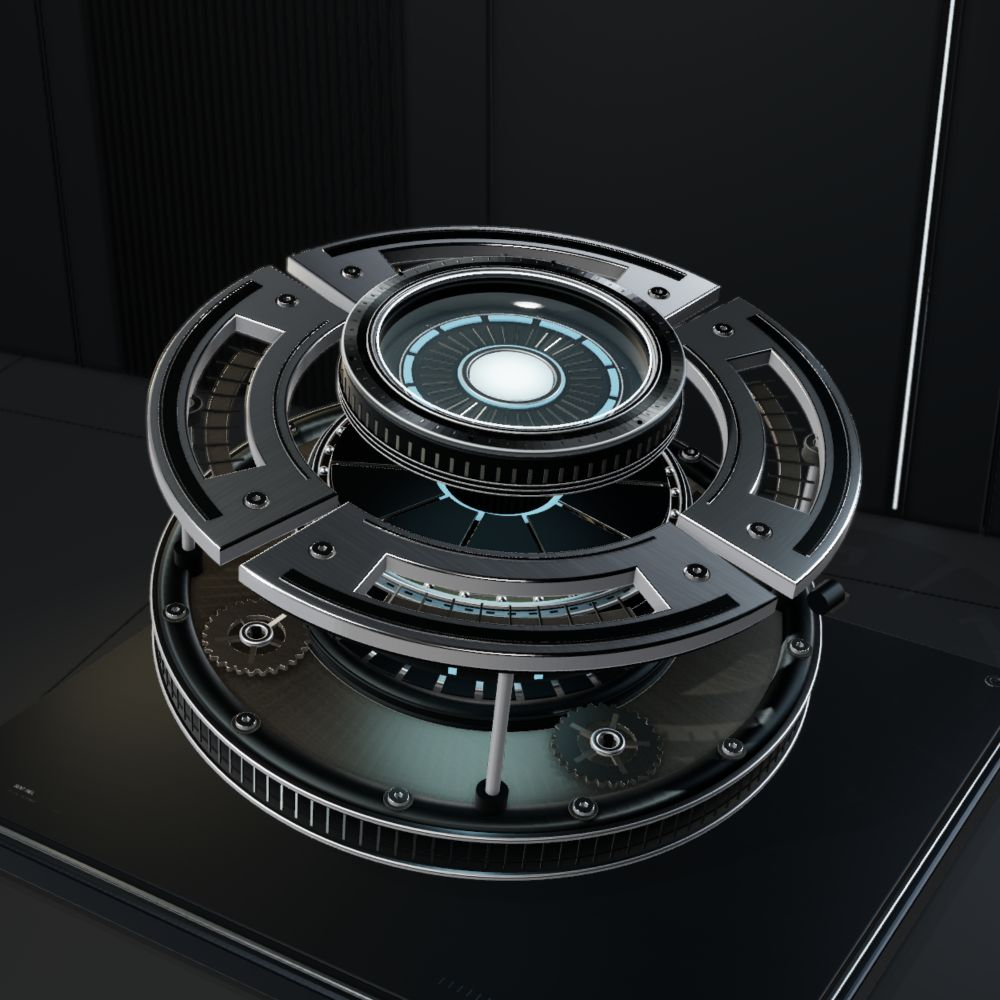
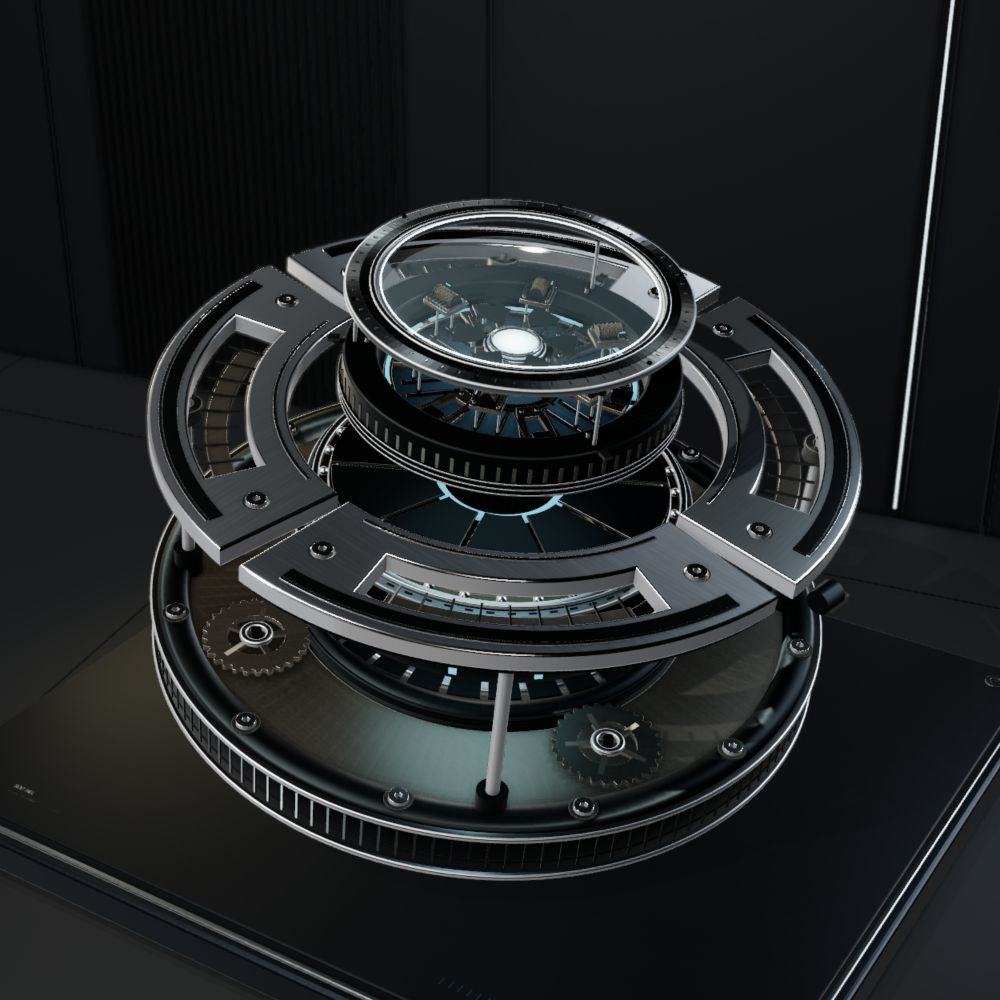
Articulate the optical core with guided cartridges and staged bridges

diff --git a/src/Sentinel.Api/wwwroot/sentinel-scene.js b/src/Sentinel.Api/wwwroot/sentinel-scene.js
@@ -31,6 +31,21 @@ export function mechanicalPose(progress) {
   };
 }
 
+// Every internal stage follows the same reversible cam coordinate. The cover
+// clears first, six guided modules follow in order, then the shutter opens.
+export function interiorPose(progress) {
+  const p=clamp(progress,0,1),travel=(start,end)=>ease((p-start)/(end-start));
+  return {latch:travel(.34,.44),hood:travel(.45,.63),emitter:travel(.73,.91),shutter:travel(.81,1),
+    cells:Array.from({length:6},(_,i)=>({slide:travel(.64+i*.026,.735+i*.026),lift:travel(.70+i*.026,.82+i*.026)}))};
+}
+
+export function bridgePose(progress) {
+  const p=clamp(progress,0,1);
+  return Array.from({length:4},(_,i)=>({
+    unlock:ease((p-i*.047)/.13),lift:ease((p-.15-i*.047)/.40)
+  }));
+}
+
 // Exact critically damped step, including velocity. Unlike resetting an ease
 // on every click, changing direction mid-travel does not introduce a jerk.
 export function advanceTravel(state, target, delta) {
@@ -332,6 +347,27 @@ function makeModel(grain) {
       const a=i/count*TAU+offset;return {position:[Math.cos(a)*radius,y,Math.sin(a)*radius],rotation:[0,-a,0]};
     }));
   }
+  function repeatAssembly(template,count,parent){
+    // Batch each finish once, then instance the complete cartridge. Tiny screws
+    // and coil windings do not each become a draw call for every moving module.
+    template.updateMatrixWorld(true);
+    const finishes=new Map(),batches=[];
+    template.traverse(object=>{if(!object.isMesh)return;if(!finishes.has(object.material))finishes.set(object.material,[]);finishes.get(object.material).push(object);});
+    for(const [material,objects] of finishes){
+      const pieces=objects.map(object=>(object.geometry.index?object.geometry.toNonIndexed():object.geometry.clone()).applyMatrix4(object.matrixWorld));
+      const geometry=new THREE.BufferGeometry();
+      for(const name of ['position','normal','uv']){
+        const array=new Float32Array(pieces.reduce((sum,piece)=>sum+piece.getAttribute(name).array.length,0));
+        let offset=0;for(const piece of pieces){const source=piece.getAttribute(name).array;array.set(source,offset);offset+=source.length;}
+        geometry.setAttribute(name,new THREE.BufferAttribute(array,name==='uv'?2:3));
+      }
+      pieces.forEach(piece=>piece.dispose());
+      const batch=instance(parent,geometry,material,Array.from({length:count},()=>({position:[0,0,0]})));
+      if(material===materials.lightGuide)batch.castShadow=batch.receiveShadow=false;
+      batches.push(batch);
+    }
+    return batches;
+  }
   function extrude(shape,depth,bevel=.025,segments=40){
     const geometry=new THREE.ExtrudeGeometry(shape,{depth,bevelEnabled:true,bevelThickness:bevel,bevelSize:bevel,bevelSegments:4,curveSegments:segments,steps:1});
     geometry.rotateX(Math.PI/2);geometry.translate(0,depth/2,0);return geometry;
@@ -404,13 +440,15 @@ function makeModel(grain) {
     const panel=new THREE.Group();pivot.add(panel);
     mesh(panel,quarter,[materials.face,materials.edge]);
     // Inset black lands separate broad satin faces from the polished bevels.
-    mesh(panel,arcGeometry(2.19,2.28,.15,Math.PI/2-.15,.007,.002),materials.bore,0,.078);
-    mesh(panel,arcGeometry(1.545,1.564,.17,Math.PI/2-.17,.009,.002),materials.edge,0,.079);
-    mesh(panel,arcGeometry(2.288,2.305,.15,Math.PI/2-.15,.008,.002),materials.edge,0,.079);
-    mesh(panel,arcGeometry(2.24,2.34,.075,Math.PI/2-.075,.035,.008),materials.bore,0,-.094);
-    mesh(panel,arcGeometry(1.52,1.61,.055,Math.PI/2-.055,.025,.005),materials.bore,0,-.078);
+    const trim=new THREE.Group();
+    mesh(trim,arcGeometry(2.19,2.28,.15,Math.PI/2-.15,.007,.002),materials.bore,0,.078);
+    mesh(trim,arcGeometry(1.545,1.564,.17,Math.PI/2-.17,.009,.002),materials.edge,0,.079);
+    mesh(trim,arcGeometry(2.288,2.305,.15,Math.PI/2-.15,.008,.002),materials.edge,0,.079);
+    mesh(trim,arcGeometry(2.24,2.34,.075,Math.PI/2-.075,.035,.008),materials.bore,0,-.094);
+    mesh(trim,arcGeometry(1.52,1.61,.055,Math.PI/2-.055,.025,.005),materials.bore,0,-.078);
     // An inset bridge and transverse ribs sit below the machined opening.
-    mesh(panel,arcGeometry(1.87,2.00,.38,1.18,.028,.006),materials.nickel,0,-.13);
+    mesh(trim,arcGeometry(1.87,2.00,.38,1.18,.028,.006),materials.nickel,0,-.13);
+    repeatAssembly(trim,1,panel);
     const ribs=[];
     for(let n=0;n<9;n++){
       const a=.40+n*.095;ribs.push({position:[Math.cos(a)*1.94,-.097,Math.sin(a)*1.94],rotation:[0,-a,0]});
@@ -455,13 +493,14 @@ function makeModel(grain) {
 
   const optic=new THREE.Group();root.add(optic);
   ring(optic,.89,1.12,.29,-.035,materials.bore);
-  ring(optic,.91,1.13,.055,.15,materials.face);
-  ring(optic,.93,.968,.029,.180,materials.edge);
-  torus(optic,.895,.007,.183,materials.emitter);
+  const hood=new THREE.Group();optic.add(hood);
+  ring(hood,.91,1.13,.055,.15,materials.face);
+  ring(hood,.93,.968,.029,.180,materials.edge);
+  torus(hood,.895,.007,.183,materials.emitter);
   for(const y of [-.16,-.12,-.08])ring(optic,1.08,1.145,.012,y,materials.edge);
   radial(optic,new THREE.BoxGeometry(.025,.11,.024),materials.body,72,1.115,-.018);
-  ring(optic,.968,1.03,.005,.182,materials.bore);
-  radial(optic,new THREE.BoxGeometry(.025,.006,.008),materials.face,60,1.068,.184);
+  ring(hood,.968,1.03,.005,.182,materials.bore);
+  radial(hood,new THREE.BoxGeometry(.025,.006,.008),materials.face,60,1.068,.184);
   const engraving=document.createElement('canvas');engraving.width=engraving.height=1024;
   const etch=engraving.getContext('2d');etch.translate(512,512);etch.fillStyle='#1c282d';
   etch.font='500 22px monospace';etch.textAlign='center';etch.textBaseline='middle';
@@ -470,7 +509,7 @@ function makeModel(grain) {
   }
   const etching=new THREE.CanvasTexture(engraving);etching.colorSpace=THREE.SRGBColorSpace;etching.anisotropy=8;textures.add(etching);
   materials.etching=new THREE.MeshStandardMaterial({map:etching,transparent:true,depthWrite:false,roughness:.65,metalness:.2});
-  const scale=mesh(optic,new THREE.PlaneGeometry(2.28,2.28),materials.etching,0,.186,0,false);scale.rotation.x=-Math.PI/2;
+  const scale=mesh(hood,new THREE.PlaneGeometry(2.28,2.28),materials.etching,0,.186,0,false);scale.rotation.x=-Math.PI/2;
   // A frosted aperture sits in a machined optical well. A radial emission map
   // rolls off inside the physical surface rather than drawing a screen halo.
   const phosphor=document.createElement('canvas');phosphor.width=phosphor.height=256;
@@ -481,18 +520,88 @@ function makeModel(grain) {
   materials.aperture=new THREE.MeshStandardMaterial({color:0xb3d8dc,roughness:.48,metalness:0,emissive:0xffffff,emissiveMap:phosphorMap,emissiveIntensity:3});
   materials.lightWell=new THREE.MeshStandardMaterial({color:0x091418,roughness:.42,metalness:.3,emissive:0x176879,emissiveMap:phosphorMap,emissiveIntensity:.65});
   mesh(optic,new THREE.CylinderGeometry(.89,.89,.026,96),materials.lightWell,0,-.12,0,false);
-  ring(optic,.29,.34,.035,-.065,materials.edge);
-  ring(optic,.35,.81,.023,-.089,materials.bore);
-  const aperture=mesh(optic,new THREE.CylinderGeometry(.278,.278,.020,64),materials.aperture,0,-.066,0,false);aperture.receiveShadow=false;
-  torus(optic,.348,.010,-.06,materials.lightGuide);
-  const lightSegments=radial(optic,arcGeometry(.665,.713,.045,TAU/12-.045,.012,.002),materials.lightGuide,12,0,-.059);
+  ring(optic,.29,.35,.028,-.09,materials.bore);
+  ring(optic,.79,.85,.018,-.077,materials.nickel);
+  const lightSegments=radial(optic,arcGeometry(.81,.835,.045,TAU/12-.045,.010,.002),materials.lightGuide,12,0,-.063);
   lightSegments.castShadow=lightSegments.receiveShadow=false;
-  radial(optic,new THREE.BoxGeometry(.205,.011,.012),materials.nickel,36,.50,-.067);
-  torus(optic,.738,.006,-.059,materials.edge);
-  radial(optic,new THREE.CylinderGeometry(.016,.016,.008,6),materials.edge,6,.79,-.071);
-  const glass=mesh(optic,new THREE.SphereGeometry(2.42,96,36,0,TAU,0,.384),materials.glass,0,-2.228);
+  const glass=mesh(hood,new THREE.SphereGeometry(2.42,96,36,0,TAU,0,.384),materials.glass,0,-2.228);
   glass.castShadow=false;glass.receiveShadow=false;
-  radial(optic,new THREE.CylinderGeometry(.018,.018,.009,6),materials.bore,6,1.091,.19);
+  radial(hood,new THREE.CylinderGeometry(.018,.018,.009,6),materials.bore,6,1.091,.19);
+
+  const hoodLocks=[];
+  const bank=new THREE.Group();
+  mesh(bank,milledSlab(.235,.205,.026,.019,.003),materials.nickel);
+  mesh(bank,new THREE.BoxGeometry(.174,.024,.14),materials.ceramic,0,.021);
+  const bobbin=mesh(bank,new THREE.CylinderGeometry(.043,.043,.14,20),materials.ceramic,0,.046);bobbin.rotation.z=Math.PI/2;
+  for(let i=0;i<10;i++){
+    const winding=mesh(bank,new THREE.TorusGeometry(.047,.0055,6,24),materials.copper,-.064+i*.014,.046);winding.rotation.y=Math.PI/2;
+  }
+  for(const sign of [-1,1]){
+    const cap=mesh(bank,new THREE.CylinderGeometry(.052,.052,.012,20),materials.bore,sign*.081,.046);cap.rotation.z=Math.PI/2;
+    mesh(bank,new THREE.BoxGeometry(.19,.012,.016),materials.edge,0,.033,sign*.085);
+    for(const x of [-.095,.095])mesh(bank,new THREE.CylinderGeometry(.011,.011,.013,6),materials.edge,x,.026,sign*.078);
+  }
+  for(let i=0;i<6;i++)mesh(bank,new THREE.BoxGeometry(.009,.052,.033),materials.body,-.075+i*.03,.025,-.083);
+  mesh(bank,new THREE.BoxGeometry(.055,.036,.027),materials.bore,.061,.059,.071);
+  mesh(bank,new THREE.BoxGeometry(.038,.006,.008),materials.lightGuide,.061,.080,.074,false);
+  for(let i=0;i<3;i++)mesh(bank,new THREE.BoxGeometry(.006,.012,.019),materials.nickel,.044+i*.014,.041,.087);
+  const banks=repeatAssembly(bank,6,optic);
+  const guideTemplate=new THREE.Group();
+  for(const sign of [-1,1]){
+    mesh(guideTemplate,new THREE.BoxGeometry(.36,.018,.025),materials.bore,.55,-.087,sign*.073);
+    mesh(guideTemplate,new THREE.BoxGeometry(.30,.008,.007),materials.edge,.55,-.073,sign*.073);
+  }
+  mesh(guideTemplate,new THREE.BoxGeometry(.105,.010,.025),materials.copper,.33,-.08);
+  // Pocketed interstitial bridges carry control packages and copper contacts.
+  // These sit between the guided cartridges, below their moving envelope.
+  const support=new THREE.Group();support.rotation.y=-Math.PI/6;guideTemplate.add(support);
+  const bridge=arcPath(new THREE.Shape(),.37,.79,-.19,.19);
+  bridge.holes.push(arcPath(new THREE.Path(),.47,.69,.105,-.105,true));
+  mesh(support,extrude(bridge,.024,.003,16),materials.nickel,0,-.063);
+  mesh(support,milledSlab(.13,.12,.028,.008,.002),materials.ceramic,.745,-.031);
+  for(const sign of [-1,1]){
+    for(let i=0;i<5;i++)mesh(support,new THREE.BoxGeometry(.011,.008,.039),materials.copper,.696+i*.024,-.033,sign*.067);
+    mesh(support,new THREE.BoxGeometry(.31,.009,.008),materials.copper,.57,-.045,sign*.105);
+    mesh(support,new THREE.CylinderGeometry(.015,.015,.014,6),materials.edge,.414,-.041,sign*.051);
+  }
+  const staticGuides=repeatAssembly(guideTemplate,6,optic),guideDummy=new THREE.Object3D();
+  for(let i=0;i<6;i++){
+    guideDummy.rotation.y=-i/6*TAU;guideDummy.updateMatrix();
+    staticGuides.forEach(batch=>batch.setMatrixAt(i,guideDummy.matrix));
+  }
+  staticGuides.forEach(batch=>{batch.instanceMatrix.needsUpdate=true;batch.computeBoundingSphere();});
+  const rodPositions=Array.from({length:12},()=>({position:[0,0,0]}));
+  const internalRods=instance(optic,new THREE.CylinderGeometry(.008,.008,1,12),materials.edge,rodPositions);
+  const internalCollars=instance(optic,new THREE.CylinderGeometry(.016,.016,.025,12),materials.bore,rodPositions);
+  const hoodRodPositions=Array.from({length:3},(_,i)=>{const a=i/3*TAU+.3;return {position:[Math.cos(a)*1.045,0,Math.sin(a)*1.045]};});
+  const hoodRods=instance(optic,new THREE.CylinderGeometry(.013,.013,1,16),materials.edge,hoodRodPositions);
+  instance(optic,new THREE.CylinderGeometry(.037,.037,.11,20),materials.bore,hoodRodPositions.map(t=>({position:[t.position[0],.017,t.position[2]]})));
+  instance(hood,new THREE.CylinderGeometry(.029,.029,.10,20),materials.bore,hoodRodPositions.map(t=>({position:[t.position[0],.098,t.position[2]]})));
+  radial(optic,new THREE.BoxGeometry(.25,.014,.038),materials.bore,3,1.06,.102,.3);
+  for(let i=0;i<3;i++){
+    const a=i/3*TAU+.3;
+    const latch=new THREE.Group();latch.position.set(Math.cos(a)*.985,.122,Math.sin(a)*.985);latch.rotation.y=-a;optic.add(latch);
+    mesh(latch,new THREE.BoxGeometry(.075,.025,.056),materials.body,.016,0);
+    mesh(latch,new THREE.CylinderGeometry(.016,.016,.035,6),materials.edge,-.019,.009);
+    hoodLocks.push(latch);
+  }
+  const tower=new THREE.Group();optic.add(tower);
+  ring(tower,.13,.265,.038,0,materials.bore);
+  ring(tower,.173,.208,.030,.032,materials.edge);
+  const aperture=mesh(tower,new THREE.CylinderGeometry(.166,.166,.042,48),materials.aperture,0,.042,0,false);aperture.receiveShadow=false;
+  ring(tower,.153,.178,.018,.070,materials.face);
+  torus(tower,.18,.004,.053,materials.lightGuide);
+  radial(tower,new THREE.BoxGeometry(.055,.055,.024),materials.nickel,6,.238,.025);
+  const petals=[],petalGeometry=keep(arcGeometry(.075,.27,-Math.PI/6+.04,Math.PI/6-.04,.007,.001));petalGeometry.translate(-.29,0,0);
+  for(let i=0;i<6;i++){
+    const pivot=new THREE.Group();pivot.rotation.y=-i/6*TAU;tower.add(pivot);
+    const hinge=new THREE.Group();hinge.position.set(.29,.081+i*.003,0);pivot.add(hinge);
+    mesh(hinge,petalGeometry,materials.bore);
+    petals.push(hinge);
+  }
+  radial(tower,new THREE.CylinderGeometry(.012,.012,.042,16),materials.edge,6,.29,.081);
+  const towerPosts=radial(optic,new THREE.CylinderGeometry(.010,.010,1,12),materials.edge,3,.22,0);
+  const cellDummy=new THREE.Object3D();
 
   const iris=new THREE.Group();cartridge.add(iris);iris.position.y=.24;
   const blades=[],bladeGeometry=keep(arcGeometry(.38,1.08,-.31,.33,.012,.004));
@@ -538,24 +647,53 @@ function makeModel(grain) {
 
   let travel={position:0,velocity:0};
   function update(time,delta,view,pointer,snap=false,power=1){
-    const target=view==='exploded'?1:view==='assembled'?0:cycleProgress(time);
+    const target=view==='exploded'||view==='detail'?1:view==='assembled'?0:cycleProgress(time);
     travel=snap?{position:target,velocity:0}:advanceTravel(travel,target,delta);
     const pose=mechanicalPose(travel.position);
+    const inside=interiorPose(travel.position);
+    const bridges=bridgePose(travel.position);
     root.rotation.set(.08+pointer.y*.022,-.38+pointer.x*.045,-.16);
-    cover.position.y=-.62+pose.cover*.17+pose.lift*1.03;
+    cover.position.y=-.62;
     cartridge.position.y=-.63+pose.carrier*.47;
     optic.position.y=-.31+pose.lift*.19+pose.optic*1.10;
-    covers.forEach(({latch})=>{
-      latch.position.y=-.19+pose.unlock*.10;
+    hood.position.y=inside.hood*.45;
+    hoodRodPositions.forEach(({position},i)=>{const bottom=.023,top=.14+hood.position.y;cellDummy.position.set(position[0],(bottom+top)/2,position[2]);cellDummy.rotation.set(0,0,0);cellDummy.scale.set(1,top-bottom,1);cellDummy.updateMatrix();hoodRods.setMatrixAt(i,cellDummy.matrix);});
+    hoodRods.instanceMatrix.needsUpdate=true;hoodRods.computeBoundingSphere();
+    hoodLocks.forEach(lock=>{lock.children[0].position.x=.016+inside.latch*.18;});
+    inside.cells.forEach((cell,i)=>{
+      const a=i/6*TAU,r=.49+cell.slide*.16;
+      cellDummy.position.set(Math.cos(a)*r,-.045+cell.lift*.23,Math.sin(a)*r);cellDummy.rotation.set(0,-a,0);cellDummy.scale.set(1,1,1);cellDummy.updateMatrix();
+      banks.forEach(batch=>batch.setMatrixAt(i,cellDummy.matrix));
+      for(let side=0;side<2;side++){
+        const z=(side?1:-1)*.073,top=-.057+cell.lift*.23,bottom=-.081;
+        cellDummy.position.set(Math.cos(a)*r-Math.sin(a)*z,(top+bottom)/2,Math.sin(a)*r+Math.cos(a)*z);
+        cellDummy.scale.set(1,top-bottom,1);cellDummy.updateMatrix();internalRods.setMatrixAt(i*2+side,cellDummy.matrix);
+        cellDummy.position.y=-.061;cellDummy.scale.set(1,1,1);cellDummy.updateMatrix();internalCollars.setMatrixAt(i*2+side,cellDummy.matrix);
+      }
+    });
+    banks.forEach(batch=>{batch.instanceMatrix.needsUpdate=true;batch.computeBoundingSphere();});
+    for(const batch of [internalRods,internalCollars]){batch.instanceMatrix.needsUpdate=true;batch.computeBoundingSphere();}
+    tower.position.y=-.055+inside.emitter*.20;
+    // Thin overlapping shutters swivel on vertical pivots, exposing the source
+    // without forming an opaque cone or crossing the coil cartridges.
+    petals.forEach(petal=>{petal.rotation.y=inside.shutter*1.62;});
+    for(let i=0;i<3;i++){
+      const a=i/3*TAU,bottom=-.096,top=tower.position.y;
+      cellDummy.position.set(Math.cos(a)*.22,(bottom+top)/2,Math.sin(a)*.22);cellDummy.rotation.set(0,0,0);cellDummy.scale.set(1,top-bottom,1);cellDummy.updateMatrix();towerPosts.setMatrixAt(i,cellDummy.matrix);
+    }
+    towerPosts.instanceMatrix.needsUpdate=true;towerPosts.computeBoundingSphere();
+    covers.forEach(({panel,latch},i)=>{
+      panel.position.y=bridges[i].lift*1.20;
+      latch.position.y=-.19+bridges[i].unlock*.10;
     });
     blades.forEach((blade,i)=>{blade.position.x=pose.iris*.09;blade.rotation.y=-pose.iris*.16;blade.position.y=i*.002;});
-    guidePosts.forEach(({rod,sleeve,collar})=>{
-      const bottom=-.96,top=cover.position.y-.18,length=top-bottom;
+    guidePosts.forEach(({rod,sleeve,collar},i)=>{
+      const bottom=-.96,top=cover.position.y+covers[(4-i)%4].panel.position.y-.18,length=top-bottom;
       rod.position.y=(bottom+top)/2;rod.scale.y=Math.max(.08,length);
       sleeve.position.y=bottom+.055;collar.position.y=bottom+.13;
     });
-    rotor.rotation.y=time*.035;
-    gears.forEach((gear,i)=>{gear.rotation.y=time*(i%2?.042:-.042);});
+    rotor.rotation.y=pose.carrier*.18;
+    gears.forEach((gear,i)=>{gear.rotation.y=(i%2?1:-1)*(bridges[i].lift*.8+pose.carrier*.2);});
     // Illumination rises slowly as the optical cartridge clears the housing.
     // No flashing, scanning HUD or independent decorative rings.
     const breath=1+Math.sin(time*TAU/12)*.035;
@@ -709,6 +847,7 @@ export async function createMechanismScene(element, {still=false,environmentData
   let frame=0, running=false, failed=false, destroyed=false, ready=false, elapsed=still ? 10 : hero ? 0 : 4.8, last=0, lastPaint=0, frames=0;
   let ignition=still||!hero?4:0;
   let view="auto", width=1, height=1, narrow=false, displayedState;
+  let framing={position:0,velocity:0};
   const pointer = {x:0,y:0}, targetPointer = {x:0,y:0};
   const scene = new THREE.Scene();
   scene.background=new THREE.Color(0x090c10);
@@ -764,10 +903,17 @@ export async function createMechanismScene(element, {still=false,environmentData
     scene.environmentIntensity=.52*(.12+.88*cue.key);
     studio.setIllumination(cue.rim);
     const expansion=model.update(elapsed,delta,view,pointer,snap,cue.optic);
+    const targetFrame=view==='detail'?1:0;
+    framing=snap?{position:targetFrame,velocity:0}:advanceTravel(framing,targetFrame,delta);
+    const close=framing.position;
     if(hero && !narrow){
       const dolly=.94+.06*cue.travel;
-      camera.position.set(3.9+Math.sin(elapsed*.055)*.04+pointer.x*.12,(4.5+expansion*.22)*dolly,(10.6+expansion*.32)*dolly);
-      camera.lookAt(1.55,-.28+expansion*.15,0);
+      camera.position.set(3.9-close*1.45+Math.sin(elapsed*.055)*.04+pointer.x*.12,(4.5+expansion*.22+close*1.10)*dolly,(10.6+expansion*.32-close*4.8)*dolly);
+      camera.lookAt(1.55-close*.52,-.28+expansion*.15+close*.98,0);
+    }else{
+      const base=hero?Math.max(12.6,10.2/camera.aspect):Math.max(12.9,11.4/camera.aspect),distance=base*(1-close*.31);
+      camera.position.set(distance*(hero?.29:.34),distance*(hero?.48:.46),distance*(hero?.82:.81));
+      camera.lookAt(hero?-.20:0,(hero?.17:-.12)+close*.65,0);
     }
     renderer.info.reset();
     finish.render(scene,camera,elapsed,model.focusPoint());
@@ -779,6 +925,7 @@ export async function createMechanismScene(element, {still=false,environmentData
       canvas.dataset.drawCalls=String(renderer.info.render.calls);
       canvas.dataset.triangles=String(renderer.info.render.triangles);
       canvas.dataset.ignition=ignition<3.8?'lighting':'complete';
+      canvas.dataset.view=view;
     }
   }
   function tick(now) {
@@ -888,7 +1035,8 @@ export async function createMechanismScene(element, {still=false,environmentData
       model.setState(state);
       if (!running) draw();
     },setView:mode=>{
-      view=["auto","exploded","assembled"].includes(mode) ? mode : "auto";
+      view=["auto","exploded","assembled","detail"].includes(mode) ? mode : "auto";
+      element.dataset.view=view;
       if(view!=="auto")ignition=4;
       if (!running) draw(0,true);
     },dispose};

diff --git a/src/Sentinel.Api/wwwroot/login.css b/src/Sentinel.Api/wwwroot/login.css
@@ -6,6 +6,7 @@ button:focus-visible,a:focus-visible{outline:2px solid #afd9ee;outline-offset:5p
 .access-shell{position:relative;isolation:isolate;min-height:780px;height:100svh;overflow:hidden;background:radial-gradient(ellipse at 35% 48%,#25303b70,transparent 62%),#090c10}
 .access-scene{position:absolute;inset:0;z-index:-3}.access-scene>.mechanism{position:absolute;inset:0}.access-scene .mechanism-assembly{inset:0 23% 0 0}
 .access-scene .mechanism-startup{left:38%;top:40%}
+.identity-title{transition:opacity .4s}.access-shell:has(.mechanism[data-view=detail]) .identity-title{opacity:.34}
 .scene-shade{position:absolute;inset:0;pointer-events:none;z-index:-1;background:linear-gradient(90deg,#080b1033,transparent 37%,#080b1040 59%,#080b10ed 78%),linear-gradient(0deg,#080b10 0%,transparent 25%,transparent 75%,#080b1033)}
 .access-header{position:absolute;top:34px;left:48px;right:48px;display:flex;align-items:center;justify-content:space-between;z-index:5}
 .wordmark{display:flex;align-items:center;gap:13px;width:fit-content}.wordmark svg{width:27px;height:27px;color:#bcc8cf}.wordmark>span{font-size:12px;font-weight:600;letter-spacing:.15em}.wordmark i{height:12px;width:1px;background:#64666580;margin-inline:3px}.wordmark small{font:8px var(--mono);letter-spacing:.14em;color:#88969f}
@@ -34,3 +35,4 @@ input{height:49px;width:100%;padding:0 42px;border:1px solid #63717a48;border-ra
 @media(max-width:900px){.access-shell{min-height:max(960px,100svh);height:auto;padding-top:375px;overflow:hidden;background:#090c10}.access-header{top:25px;left:25px;right:25px}.wordmark{gap:10px}.wordmark svg{width:23px;height:23px}.wordmark>span{font-size:10px}.wordmark small{font-size:7px}.access-classification{font-size:6px;gap:6px}.access-scene{height:510px;bottom:auto;overflow:hidden}.access-scene>.mechanism{inset:0 -4%}.access-scene .mechanism-assembly{inset:0 0 0 0}.scene-shade{height:530px;bottom:auto;background:linear-gradient(0deg,#090c10 25%,#090c1000 61%,#090c1033)}.identity-panel{inset:0;pointer-events:none;height:375px}.identity-title{top:77px;left:25px}.identity-title>p{font-size:6px;margin-bottom:8px;letter-spacing:.14em}.identity-title h1{font-size:58px;letter-spacing:-.055em}.identity-title h1>span{display:none}.identity-caption{display:none}.identity-panel>.scene-controls{left:25px;bottom:0;gap:18px;background:linear-gradient(90deg,#090c10e8,#090c1055);box-shadow:0 0 18px 8px #090c1066}.identity-panel>.scene-controls [data-core-view]{font-size:9px;padding-block:13px}.identity-panel>.scene-controls .motion-toggle{font-size:6px;margin-left:0;padding-left:13px}.login-panel{margin:0 auto;padding:25px 26px 93px;height:auto;width:100%;max-width:452px}.login-content{padding-top:18px}.access-label{margin-bottom:19px;font-size:7px}.login-content h2{font-size:28px}.login-description{font-size:11px;margin-bottom:26px}.access-footer{left:25px;right:25px;bottom:24px;font-size:6px;letter-spacing:.03em}.access-footer>span:last-child{gap:7px}.access-footer>span:first-child{max-width:142px;line-height:1.8}}
 @media(prefers-reduced-motion:reduce){*{transition:none!important;scroll-behavior:auto!important}}
 @media(max-width:900px){.access-scene .mechanism-startup{left:50%;top:44%;width:144px}.access-scene .startup-instrument{width:112px;height:112px;margin-bottom:11px}}
+@media(max-width:420px){.identity-panel>.scene-controls{gap:12px}.identity-panel>.scene-controls .motion-toggle{padding-left:9px}.identity-panel>.scene-controls [data-core-view]>span{margin-right:4px}}

diff --git a/src/Sentinel.Api/wwwroot/index.html b/src/Sentinel.Api/wwwroot/index.html
@@ -76,7 +76,7 @@
           <div class="chart-foot"><span id="chart-start">—</span><p id="chart-note">첫 번째 점검을 기다리는 중</p><span id="chart-end">—</span></div>
         </section>
         <section class="core-panel" aria-labelledby="core-title" data-state="standby">
-          <div class="core-panel-heading"><h2 id="core-title">관제 코어 <span>ASSET FIELD</span></h2><div class="scene-controls" data-core-controls="operations" hidden aria-label="코어 움직임"><button type="button" data-core-view="auto" aria-pressed="true">자동</button><button type="button" data-core-view="exploded" aria-pressed="false">분해</button><button type="button" data-core-view="assembled" aria-pressed="false">조립</button></div></div>
+          <div class="core-panel-heading"><h2 id="core-title">관제 코어 <span>ASSET FIELD</span></h2><div class="scene-controls" data-core-controls="operations" hidden aria-label="코어 움직임"><button type="button" data-core-view="auto" aria-pressed="true">자동</button><button type="button" data-core-view="exploded" aria-pressed="false">분해</button><button type="button" data-core-view="assembled" aria-pressed="false">조립</button><button type="button" data-core-view="detail" aria-pressed="false">내부</button></div></div>
           <div id="operations-core" class="mechanism" data-sentinel-core="operations" aria-hidden="true"><div class="mechanism-assembly"><img class="mechanism-image" src="/assets/sentinel-optic-poster.jpg" width="1000" height="1000" alt="" decoding="async" draggable="false"><span class="mechanism-reflection"></span></div></div>
           <div class="core-reading"><span>정상 / 전체 자산</span><div><strong id="core-healthy">—</strong><span>/</span><b id="core-total">—</b></div></div>
           <div class="core-panel-footer"><p id="core-condition">첫 점검 대기</p><button id="core-map" type="button" aria-label="전체 아키텍처 보기">구조도 <span aria-hidden="true">↗</span></button></div>

diff --git a/src/Sentinel.Api/wwwroot/login.html b/src/Sentinel.Api/wwwroot/login.html
@@ -22,7 +22,7 @@
       <div class="identity-title"><p>SERVICE LEVEL ASSURANCE</p><h1>Sentinel<span>Infrastructure, in focus.</span></h1></div>
       <div class="identity-caption"><span class="caption-rule"></span><p>모든 신호를,<br>놓치지 않도록.</p><small>MSG CTF 인프라 관제 시스템</small></div>
       <div class="scene-controls" data-core-controls="access" hidden aria-label="코어 움직임">
-        <button type="button" data-core-view="auto" aria-pressed="true"><span>01</span> 자동</button><button type="button" data-core-view="exploded" aria-pressed="false"><span>02</span> 분해</button><button type="button" data-core-view="assembled" aria-pressed="false"><span>03</span> 조립</button>
+        <button type="button" data-core-view="auto" aria-pressed="true"><span>01</span> 자동</button><button type="button" data-core-view="exploded" aria-pressed="false"><span>02</span> 분해</button><button type="button" data-core-view="assembled" aria-pressed="false"><span>03</span> 조립</button><button type="button" data-core-view="detail" aria-pressed="false"><span>04</span> 내부</button>
         <button class="motion-toggle" data-motion-toggle type="button" aria-label="모션 끄기" aria-pressed="false"><svg viewBox="0 0 16 16" aria-hidden="true"><path d="M4 4v8m8-8v8"/></svg><span>MOTION ON</span></button>
       </div>
     </section>
